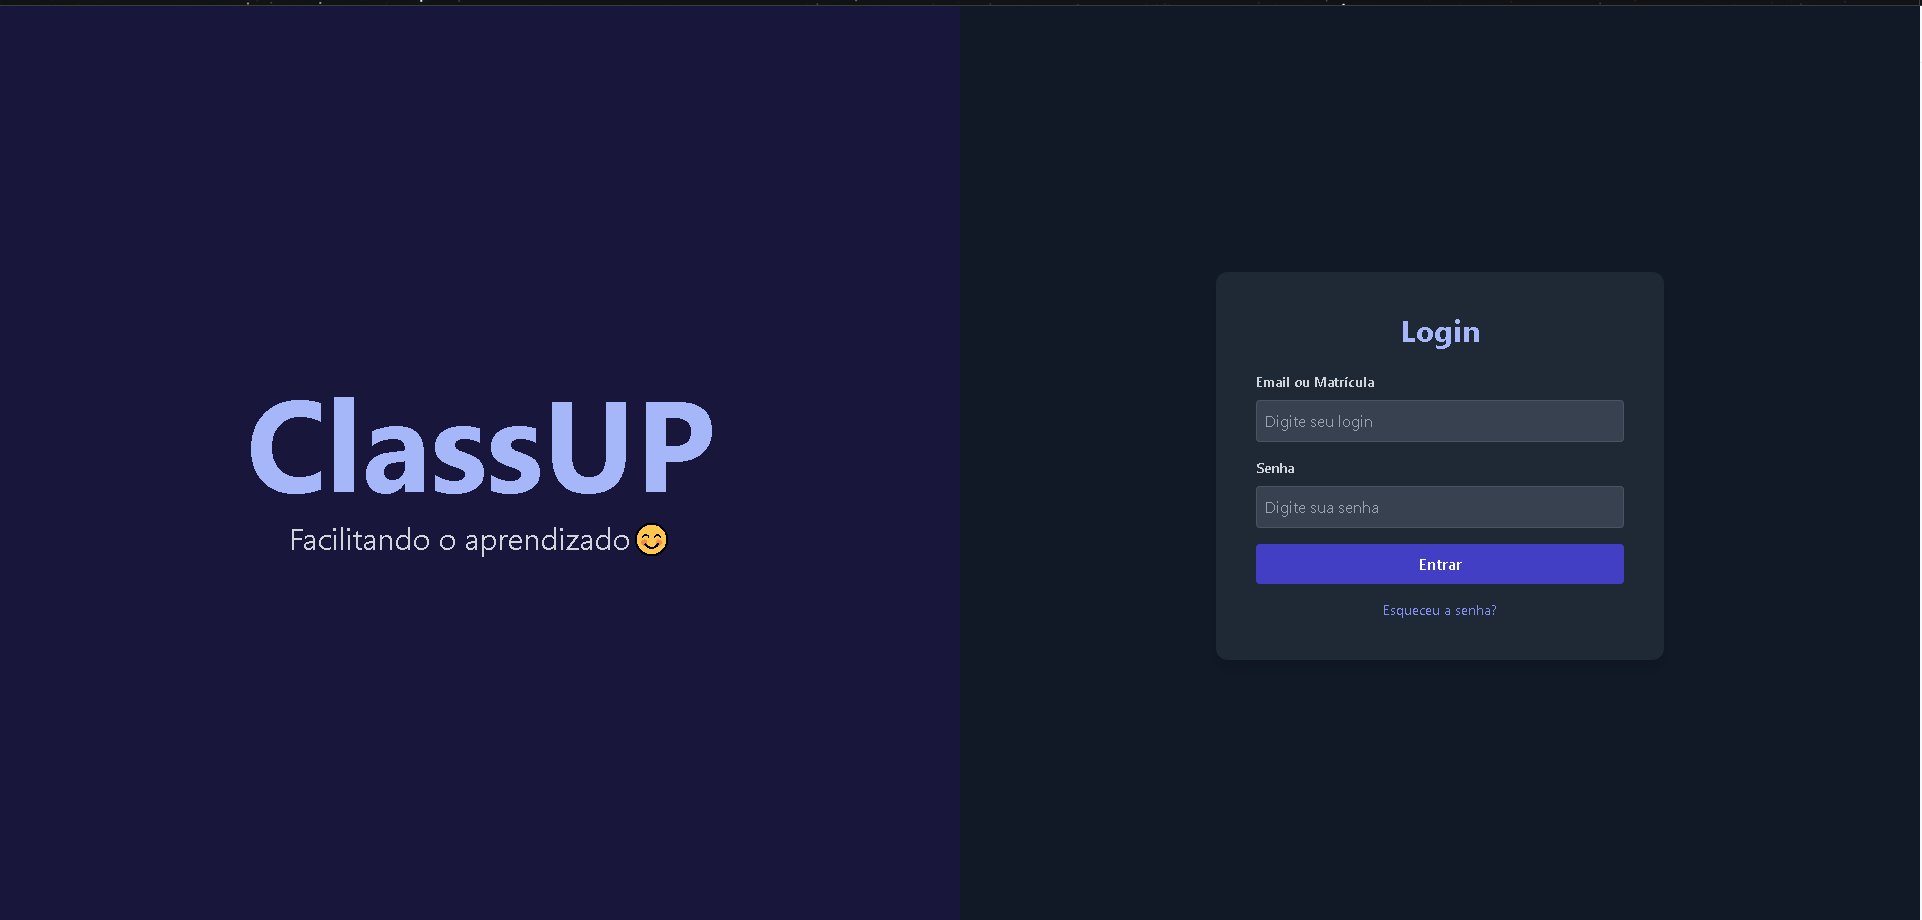
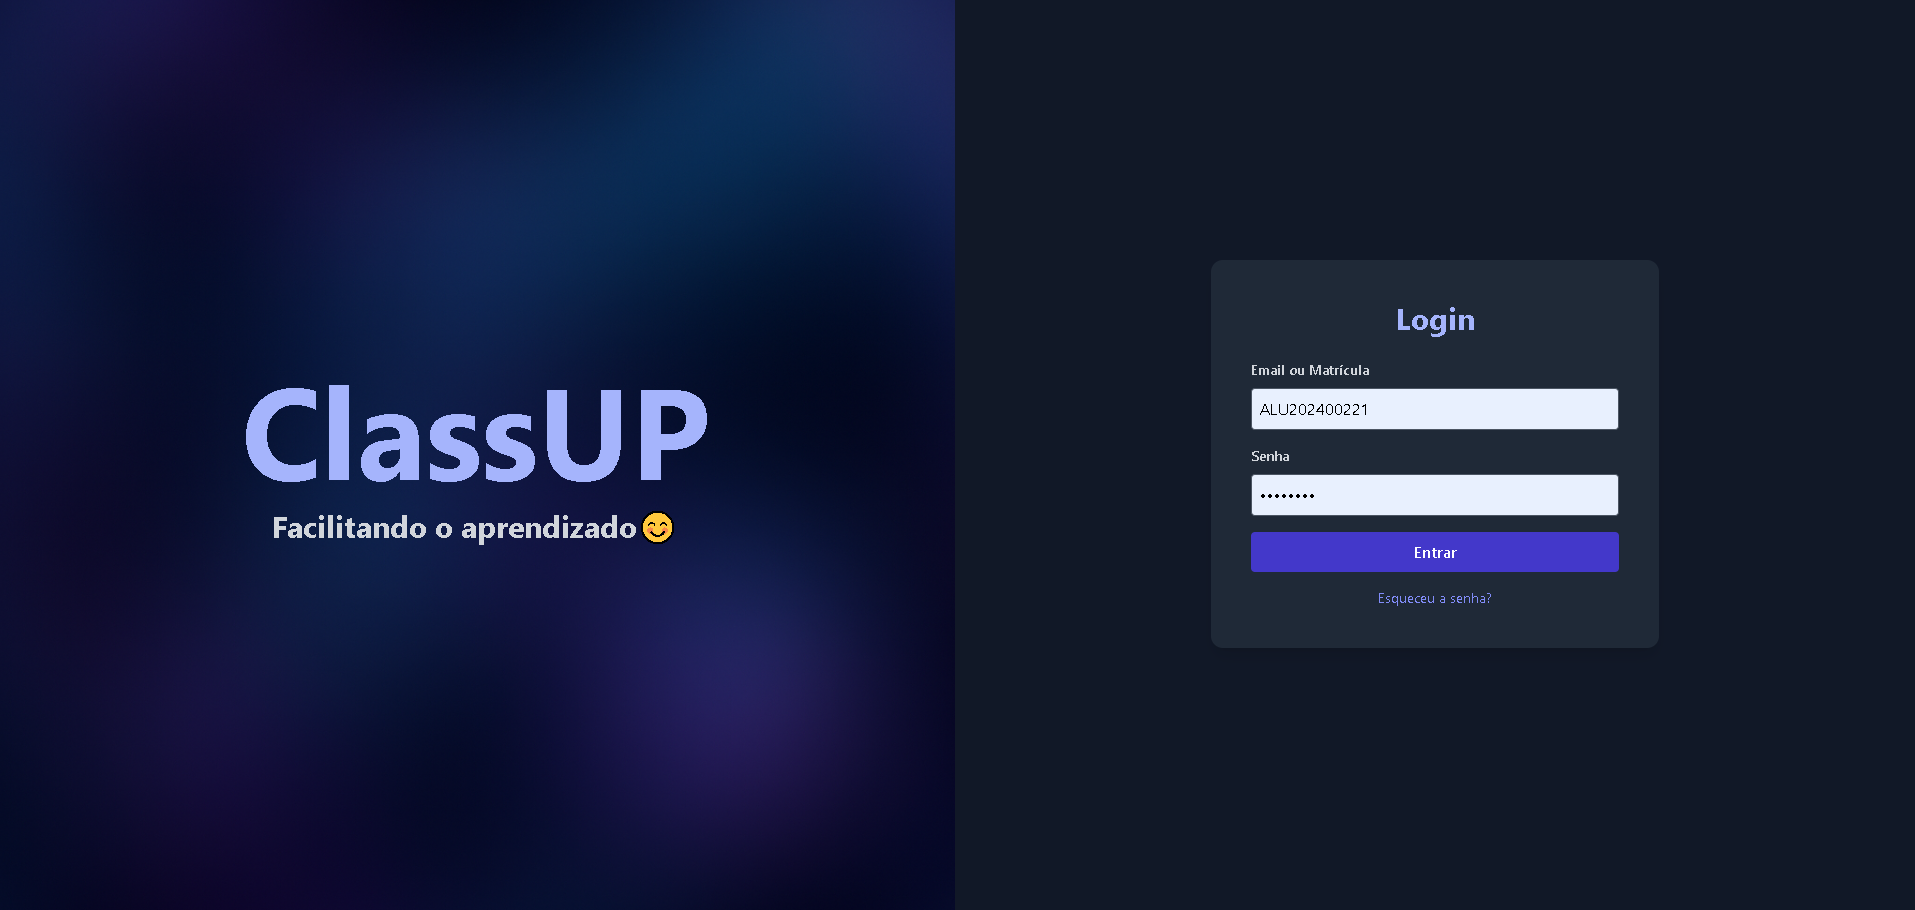
mudança no design do login e mudança do title

diff --git a/src/pages/TelaLogin.jsx b/src/pages/TelaLogin.jsx
@@ -3,6 +3,7 @@ import { motion } from "framer-motion";
 import useAuth from "../hooks/useAuth";
 import ModalEnviarEmail from "../components/modals/ModalEnviarEmail";
 import ModalRedefinirSenha from "../components/modals/ModalRedefinirSenha";
+import { useNavigate } from "react-router-dom";  // Importando useNavigate para redirecionar
 
 export default function TelaLogin() {
   const [login, setLogin] = useState("");
@@ -11,12 +12,8 @@ export default function TelaLogin() {
   const [mostrarModalCodigo, setMostrarModalCodigo] = useState(false);
   const [emailParaRedefinir, setEmailParaRedefinir] = useState("");
 
-  const {
-    mensagem,
-    sucesso,
-    carregandoRedirect,
-    realizarLogin,
-  } = useAuth();
+  const { mensagem, sucesso, carregandoRedirect, realizarLogin } = useAuth();
+  const navigate = useNavigate();  // Definindo o hook para navegação
 
   const handleLogin = (e) => {
     e.preventDefault();
@@ -35,13 +32,18 @@ export default function TelaLogin() {
     <div className="min-h-screen flex">
       {/* esquerda */}
       <motion.div
-        className="w-1/2 bg-[#18163c] text-white flex items-center justify-center flex-col"
+        className="w-1/2 text-white flex items-center justify-center flex-col"
+        style={{
+          backgroundImage: `url('/src/assets/background.png')`,
+          backgroundSize: 'cover',
+          backgroundPosition: 'center',
+        }}
         initial={{ opacity: 0, x: -50 }}
         animate={{ opacity: 1, x: 0 }}
         transition={{ duration: 0.5 }}
       >
-        <h1 className="text-9xl font-bold text-indigo-300">ClassUP</h1>
-        <p className="text-3xl mt-4 text-gray-300">Facilitando o aprendizado😊</p>
+        <h1 className="text-9xl font-bold text-indigo-300" >ClassUP</h1>
+        <p className="text-3xl mt-4 text-gray-300"><strong>Facilitando o aprendizado😊</strong></p>
       </motion.div>
 
       {/* direita */}

diff --git a/index.html b/index.html
@@ -4,7 +4,7 @@
     <meta charset="UTF-8" />
     <link rel="icon" href="/favicon.ico" />
     <meta name="viewport" content="width=device-width, initial-scale=1.0" />
-    <title>ClassUP Tailwind</title>
+    <title>ClassUP - Plataforma Educacional</title>
   </head>
   <body>
     <div id="root"></div>
